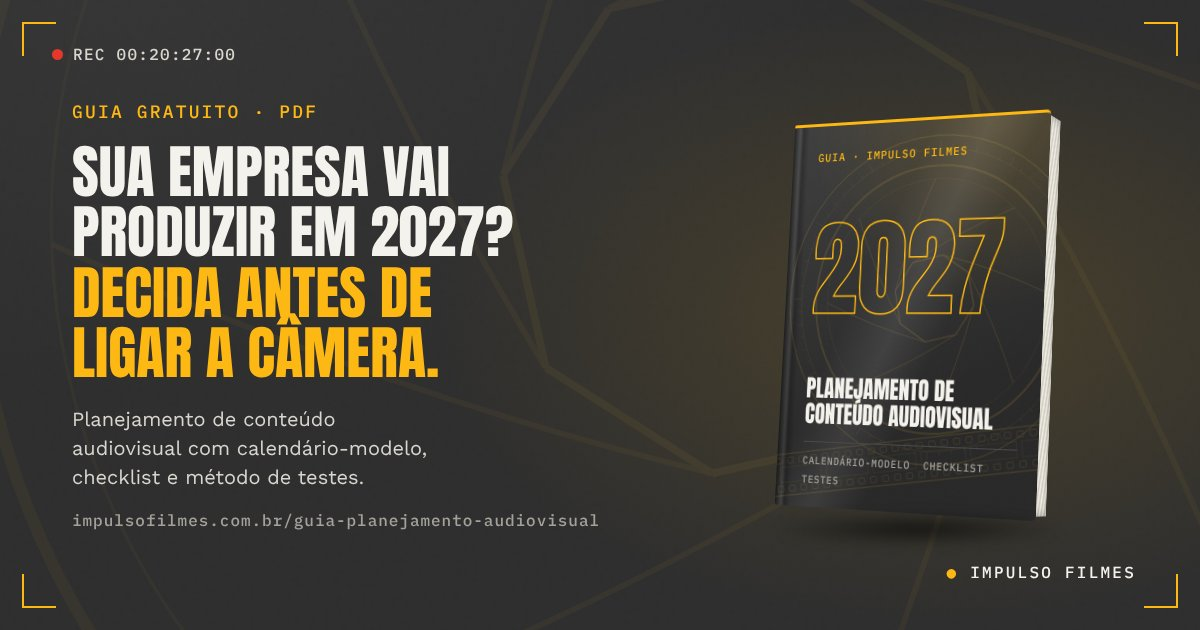
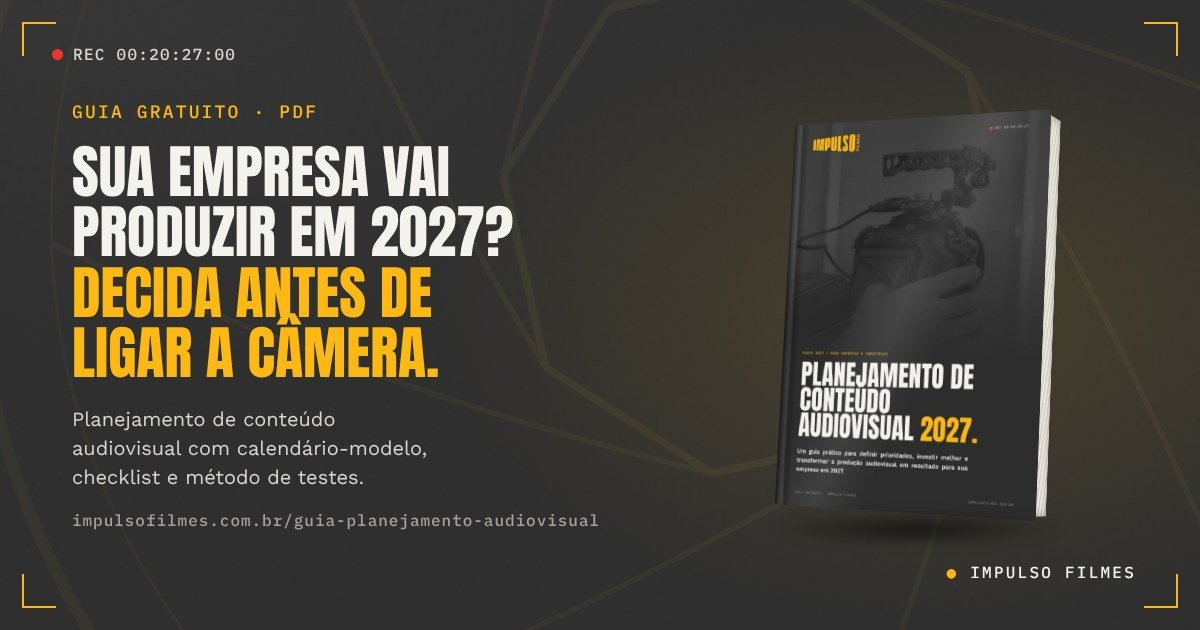
Capa do livro com a arte final do guia (landing, imagens de divulgação e topo do e-mail)
Claude-Session: https://claude.ai/code/session_01SGBA6gHqWrHQdPf3NpZQUW

diff --git a/index.html b/index.html
@@ -27,8 +27,8 @@
 <link rel="preconnect" href="https://fonts.googleapis.com">
 <link rel="preconnect" href="https://fonts.gstatic.com" crossorigin>
 <link href="https://fonts.googleapis.com/css2?family=Anton&family=IBM+Plex+Mono:wght@400;500&family=Work+Sans:ital,wght@0,400;0,500;0,600;1,400&display=swap" rel="stylesheet">
-<link rel="stylesheet" href="base.css?v=10201437">
-<link rel="stylesheet" href="lp.css?v=10201437">
+<link rel="stylesheet" href="base.css?v=10210223">
+<link rel="stylesheet" href="lp.css?v=10210223">
 <script type="application/ld+json">
 {
   "@context": "https://schema.org",
@@ -98,12 +98,8 @@
     <a class="book" href="#guia" data-cursor="Receba o guia" aria-label="Capa do guia. Ir para o formulário">
       <span class="book-3d">
         <span class="flap">
-        <span class="cover">
-          <img class="cover-art" src="capa-textura.svg?v=10201437" alt="" aria-hidden="true" style="position:absolute;inset:0;width:100%;height:100%;opacity:.16">
-          <span class="cover-tag">Guia · Impulso Filmes</span>
-          <span class="cover-year" aria-hidden="true"><i>2</i><i>0</i><i>2</i><i>7</i></span>
-          <span class="cover-title">Planejamento de conteúdo audiovisual</span>
-          <span class="cover-foot"><span>Calendário-modelo</span><span>Checklist</span><span>Testes</span></span>
+        <span class="cover foto">
+          <img class="cover-img" src="capa-guia.jpg" alt="Capa do guia Planejamento de conteúdo audiovisual 2027, da Impulso Filmes" width="800" height="1132">
         </span>
         <span class="inside" aria-hidden="true"></span>
         </span>
@@ -371,7 +367,7 @@
 
 <div class="cursor" aria-hidden="true"></div><div class="dot" aria-hidden="true"></div>
 
-<script src="config.js?v=10201437"></script>
-<script src="lp.js?v=10201437"></script>
+<script src="config.js?v=10210223"></script>
+<script src="lp.js?v=10210223"></script>
 </body>
 </html>

diff --git a/lp.css b/lp.css
@@ -66,6 +66,10 @@
   background: linear-gradient(90deg, rgba(0, 0, 0, .45) 0, rgba(255, 255, 255, .08) 7px, rgba(0, 0, 0, .25) 11px, transparent 18px),
               linear-gradient(115deg, transparent 35%, rgba(255, 255, 255, .09) 48%, transparent 60%); }
 .cover > * { position: relative; }
+/* Capa com a arte final do guia (foto): ocupa a capa inteira; o vinco e o brilho ficam por cima */
+.cover.foto { padding: 0; border-top: 0; background: #2d2d2d; }
+.cover.foto > .cover-img { position: absolute; inset: 0; width: 100%; height: 100%; object-fit: cover; object-position: 50% 50%; }
+.cover.foto::before { z-index: 1; }
 /* Arte da capa: lente com diafragma, escala de foco e fita de filme, bem apagadas, com granulação de película */
 .cover > .cover-art { position: absolute; inset: 0; width: 100%; height: 100%; object-fit: cover; opacity: .16; pointer-events: none; mix-blend-mode: screen; }
 /* Miolo: folhas visíveis na lateral direita e no topo */

diff --git a/divulgacao/arte.html b/divulgacao/arte.html
@@ -85,13 +85,7 @@
   <div class="palco">
     <span class="book">
       <span class="book-3d">
-        <span class="cover">
-          <img class="cover-art" src="../capa-textura.svg" alt="" style="position:absolute;inset:0;width:100%;height:100%;opacity:.16">
-          <span class="cover-tag">Guia · Impulso Filmes</span>
-          <span class="cover-year"><i>2</i><i>0</i><i>2</i><i>7</i></span>
-          <span class="cover-title">Planejamento de conteúdo audiovisual</span>
-          <span class="cover-foot"><span>Calendário-modelo</span><span>Checklist</span><span>Testes</span></span>
-        </span>
+        <span class="cover foto"><img class="cover-img" src="../capa-guia.jpg" alt=""></span>
         <span class="book-pages"></span>
         <span class="book-top"></span>
         <span class="book-spine"><span>Planejamento audiovisual 2027</span></span>

diff --git a/obrigado.html b/obrigado.html
@@ -9,8 +9,8 @@
 <link rel="preconnect" href="https://fonts.googleapis.com">
 <link rel="preconnect" href="https://fonts.gstatic.com" crossorigin>
 <link href="https://fonts.googleapis.com/css2?family=Anton&family=IBM+Plex+Mono:wght@400;500&family=Work+Sans:ital,wght@0,400;0,500;0,600;1,400&display=swap" rel="stylesheet">
-<link rel="stylesheet" href="base.css?v=10201437">
-<link rel="stylesheet" href="lp.css?v=10201437">
+<link rel="stylesheet" href="base.css?v=10210223">
+<link rel="stylesheet" href="lp.css?v=10210223">
 </head>
 <body class="thanks-page">
 
@@ -73,7 +73,7 @@
 
 <div class="cursor" aria-hidden="true"></div><div class="dot" aria-hidden="true"></div>
 
-<script src="config.js?v=10201437"></script>
-<script src="lp.js?v=10201437"></script>
+<script src="config.js?v=10210223"></script>
+<script src="lp.js?v=10210223"></script>
 </body>
 </html>

diff --git a/divulgacao/livro.html b/divulgacao/livro.html
@@ -24,13 +24,7 @@
 <div class="palco">
   <span class="book">
     <span class="book-3d">
-      <span class="cover">
-        <img class="cover-art" src="../capa-textura.svg" alt="" style="position:absolute;inset:0;width:100%;height:100%;opacity:.16">
-        <span class="cover-tag">Guia · Impulso Filmes</span>
-        <span class="cover-year"><i>2</i><i>0</i><i>2</i><i>7</i></span>
-        <span class="cover-title">Planejamento de conteúdo audiovisual</span>
-        <span class="cover-foot"><span>Calendário-modelo</span><span>Checklist</span><span>Testes</span></span>
-      </span>
+      <span class="cover foto"><img class="cover-img" src="../capa-guia.jpg" alt=""></span>
       <span class="book-pages"></span>
       <span class="book-top"></span>
       <span class="book-spine"><span>Planejamento audiovisual 2027</span></span>
